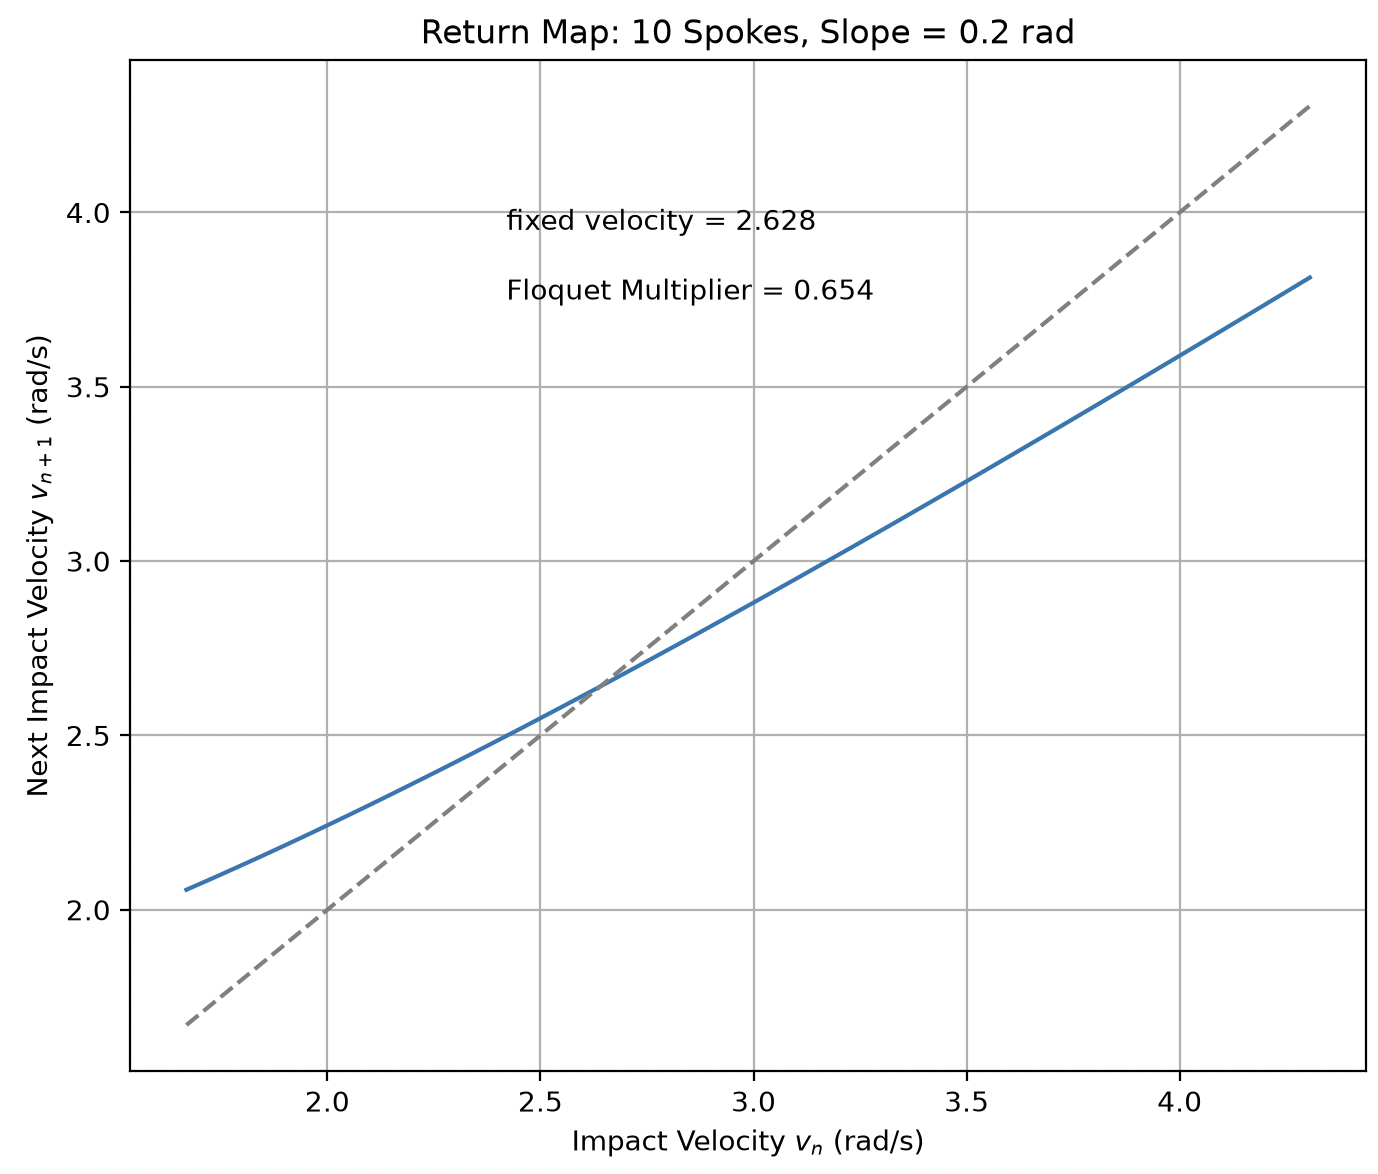
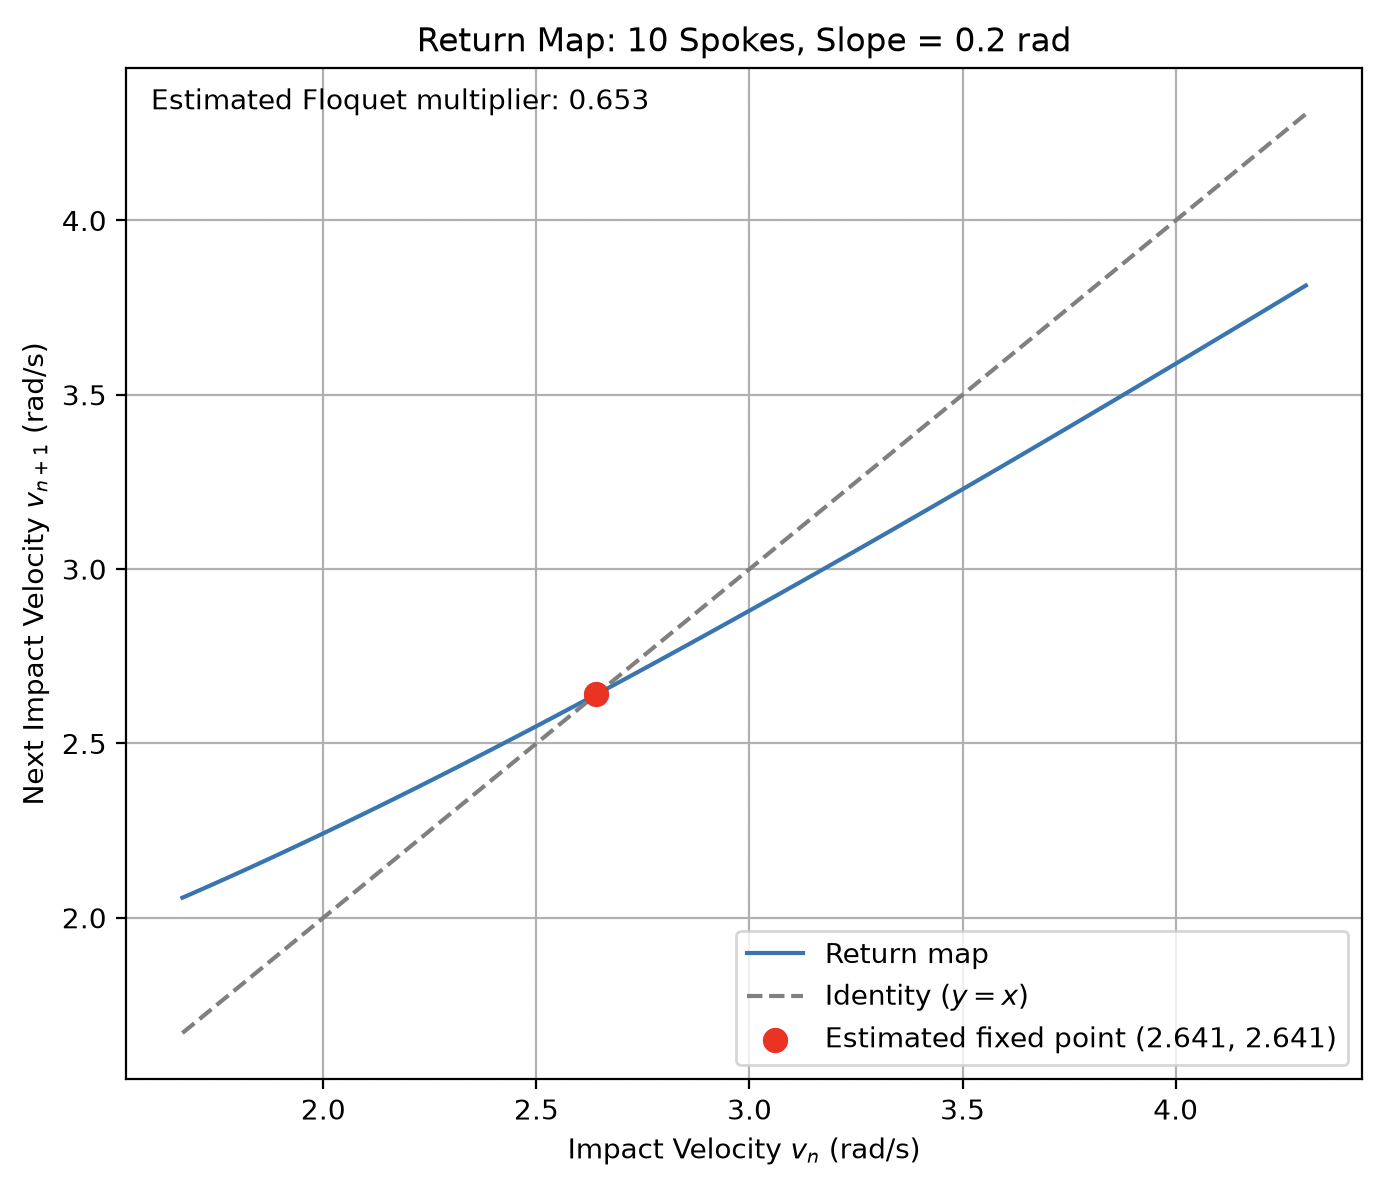
Post peer-review fixes

diff --git a/mae5110/assignment_1.py b/mae5110/assignment_1.py
@@ -8,63 +8,77 @@ from models import rimless_wheel as model
 
 params = model.generate_params()
 
-def simulate(initial_state, params, t_max, dt_base):
+def simulate(initial_state, params, t_max, dt_base, *, settle_speed=1e-3):
+    if dt_base <= 0 or settle_speed <= 0:
+        raise ValueError("dt_base and settle_speed must be positive")
     t = 0.0
-    state = np.array(initial_state)
+    state = np.array(initial_state, dtype=float)
 
     t_history = [t]
     state_history = [state]
     poincare_sections = []
 
     while t < t_max:
-        next_state = rk4.step(model.dynamics, t, state, dt_base, params)
-
-        if model.impact_guard(next_state, params):
-            dt_fine = dt_base
-            fine_state = state
-
-            for i in range(10):
-                dt_fine /= 2
-                test_state = rk4.step(model.dynamics, t, fine_state, dt_fine, params)
-                if not model.impact_guard(test_state, params):
-                    fine_state = test_state
-                    t += dt_fine
+        dt = min(dt_base, t_max - t)
+        next_state = rk4.step(model.dynamics, t, state, dt, params)
+        impact_direction = model.impact_guard(next_state, params)
+        if impact_direction != 0:
+            low, high = 0.0, dt
+            for _ in range(30):
+                mid = (low + high) / 2
+                test_state = rk4.step(model.dynamics, t, state, mid, params)
+                if model.impact_guard(test_state, params) == impact_direction:
+                    high = mid
+                else:
+                    low = mid
+            fine_state = rk4.step(model.dynamics, t, state, high, params)
+            fine_state[0] = params["slope"] + impact_direction * params["half_angle"]
+            t += high
             poincare_sections.append(fine_state)
-            state = model.reset_dynamics(fine_state, params)
+            state = model.reset_dynamics(fine_state, params, impact_direction)
+
+            can_rest = abs(params["slope"]) < params["half_angle"]
+            if can_rest and abs(state[1]) < settle_speed:
+                state[1] = 0.0
+                t_history.append(t)
+                state_history.append(state)
+                break
 
             t_history.append(t)
             state_history.append(state)
         else:
             state = next_state
-            t += dt_base
+            t += dt
 
             t_history.append(t)
             state_history.append(state)
-        if state[1] <= 0 and state[0] < params["slope"] + params["half_angle"]:
-            break
 
-    return np.array(t_history), np.array(state_history), np.array(poincare_sections)
+    return np.array(t_history), np.array(state_history), np.array(poincare_sections).reshape(-1, 2)
 
 
-#Estimating regions of attraction.
-#Expected attractors: limit cycle (rolling), dead stop (stationary)
+def classify_motion(state_history, poincare_sections):
+    if len(poincare_sections) > 0 and state_history[-1, 1] == 0:
+        return -1
+    recent = poincare_sections[-5:, 1]
+    if len(recent) == 5 and np.all(recent > 0):
+        if np.ptp(recent) <= 0.01 * np.mean(recent):
+            return 1
+    return 0
+
+
 def estimate_roa():
     gamma = params["slope"]
     alpha = params["half_angle"]
     theta_values = np.linspace(gamma - alpha, gamma + alpha, 60)
-    theta_dot_values = np.linspace(0, 5, 60)
+    theta_dot_values = np.linspace(-5, 5, 60)
 
     roa_map = np.zeros((60, 60))
 
     for i, theta_dot in enumerate(theta_dot_values):
         for j, theta in enumerate(theta_values):
             initial_state = [theta, theta_dot]
-            _, _, poincare_sections = simulate(initial_state, params, t_max=10, dt_base=0.01)
-
-            if len(poincare_sections) > 5:
-                roa_map[i, j] = 1
-            else:
-                roa_map[i, j] = -1  # Dead stop attractor
+            _, states, poincare_sections = simulate(initial_state, params, t_max=10, dt_base=0.01)
+            roa_map[i, j] = classify_motion(states, poincare_sections)
 
     theta_grid, theta_dot_grid = np.meshgrid(theta_values, theta_dot_values)
     plt.figure(figsize=(8, 6))
@@ -73,6 +87,8 @@ def estimate_roa():
                 color='green', marker='o', label='Rolling')
     plt.scatter(theta_grid[roa_map == -1], theta_dot_grid[roa_map == -1],
                 color='red', marker='o', label='Dead Stop')
+    plt.scatter(theta_grid[roa_map == 0], theta_dot_grid[roa_map == 0],
+                color='gray', marker='o', label='Unresolved at 10 s')
 
     plt.xlabel('Initial Angle, $\\theta$ (rad)')
     plt.ylabel('Initial Velocity, $\\dot{\\theta}$ (rad/s)')
@@ -91,6 +107,7 @@ def return_map(params):
     for velocity in test_velocities:
         initial_state = [0.0, velocity]
         _, _, poincare = simulate(initial_state, params, t_max=3.0, dt_base=0.01)
+        poincare = poincare[poincare[:, 1] > 0]
         if len(poincare) >= 2:
             v_n.append(poincare[0][1])
             v_next.append(poincare[1][1])
@@ -99,17 +116,34 @@ def return_map(params):
 
 
 def estimate_fixed_point(v_n, v_next, window_radius=2):
+    v_n, v_next = np.asarray(v_n), np.asarray(v_next)
+    valid = np.isfinite(v_n) & np.isfinite(v_next)
+    order = np.argsort(v_n[valid])
+    v_n, v_next = v_n[valid][order], v_next[valid][order]
+    residual = v_next - v_n
+    fixed_velocity = None
+    for fixed_idx in range(len(v_n)):
+        if residual[fixed_idx] == 0:
+            fixed_velocity = v_n[fixed_idx]
+            break
+        if (fixed_idx + 1 < len(v_n)
+                and v_n[fixed_idx + 1] > v_n[fixed_idx]
+                and residual[fixed_idx] * residual[fixed_idx + 1] < 0):
+            fraction = -residual[fixed_idx] / (residual[fixed_idx + 1] - residual[fixed_idx])
+            fixed_velocity = v_n[fixed_idx] + fraction * (v_n[fixed_idx + 1] - v_n[fixed_idx])
+            break
+    if fixed_velocity is None:
+        return None, None
 
-    fixed_idx = np.argmin(np.abs(v_n - v_next))
     start_idx = max(0, fixed_idx - window_radius)
-    end_idx = min(len(v_n), fixed_idx + window_radius + 1)
+    end_idx = min(len(v_n), fixed_idx + max(window_radius + 1, 2))
     local_v = v_n[start_idx:end_idx]
 
     if np.unique(local_v).size < 2:
-        return v_n[fixed_idx], None
+        return fixed_velocity, None
 
     multiplier, _ = np.polyfit(local_v, v_next[start_idx:end_idx], 1)
-    return v_n[fixed_idx], multiplier
+    return fixed_velocity, multiplier
 
 def return_map_plot(params=None):
     if params is None:
@@ -120,7 +154,7 @@ def return_map_plot(params=None):
 
     ax.plot(v_n, v_next, label="Return map")
     all_velocities = np.concatenate([v_n, v_next])
-    limits = [all_velocities.min(), all_velocities.max()]
+    limits = [all_velocities.min(), all_velocities.max()] if all_velocities.size else [0, 1]
     ax.plot(limits, limits, linestyle="--", color="gray", label="Identity ($y=x$)")
 
     ax.set_xlabel("Impact Velocity $v_{n}$ (rad/s)")
@@ -130,8 +164,17 @@ def return_map_plot(params=None):
         f"Slope = {params['slope']:.4g} rad"
     )
     fixed_velocity, multiplier = estimate_fixed_point(v_n, v_next)
-    ax.text(2.42, 3.95, f"fixed velocity = {fixed_velocity:.3f}")
-    ax.text(2.42, 3.75, f"Floquet Multiplier = {multiplier:.3f}")
+    if fixed_velocity is not None:
+        ax.scatter(
+            [fixed_velocity], [fixed_velocity], color="red", s=65, zorder=5,
+            label=f"Estimated fixed point ({fixed_velocity:.3f}, {fixed_velocity:.3f})",
+        )
+        note = (f"Estimated Floquet multiplier: {multiplier:.3f}"
+                if multiplier is not None else "Floquet multiplier unavailable")
+    else:
+        note = "No fixed point detected in sampled range"
+    ax.text(0.02, 0.98, note, transform=ax.transAxes, va="top")
+    ax.legend(loc="lower right")
     ax.grid(True)
     fig.tight_layout()
     plt.show()
@@ -144,6 +187,19 @@ def _sweep(values, *, parameter, label, title):
     cmap = plt.colormaps["cividis"]
     fig, (ax1, ax2, ax3) = plt.subplots(
         3, 1, figsize=(8, 8), layout="constrained"
+    )
+    base_params = model.generate_params()
+    if parameter == "slope":
+        sweep_info = f"{len(values)} slope values swept"
+    else:
+        sweep_info = (
+            f"{len(values)} spoke counts swept\n"
+            rf"$\gamma = {base_params['slope']:.4g}$ rad"
+        )
+    ax1.text(
+        0.02, 0.98, sweep_info, transform=ax1.transAxes,
+        va="top", fontsize=9,
+        bbox=dict(facecolor="white", alpha=0.85, edgecolor="none"),
     )
     curves = []
     fixed_velocities = []
@@ -161,18 +217,20 @@ def _sweep(values, *, parameter, label, title):
         ax1.plot(v_n, v_next, color=cmap(norm(value)))
 
         fixed_velocity, multiplier = estimate_fixed_point(v_n, v_next)
-        fixed_velocities.append(fixed_velocity)
+        fixed_velocities.append(fixed_velocity if fixed_velocity is not None else np.nan)
         multipliers.append(multiplier if multiplier is not None else np.nan)
 
-    all_velocities = np.concatenate(curves)
-    limits = [all_velocities.min(), all_velocities.max()]
+    all_velocities = np.concatenate(curves) if curves else np.array([])
+    limits = [all_velocities.min(), all_velocities.max()] if all_velocities.size else [0, 1]
     ax1.plot(limits, limits, linestyle="--", color="gray", label="Identity ($y=x$)")
 
     ax2.plot(values, multipliers, color='red',linestyle='--', linewidth=2, marker='*')
     ax2.set_xlabel(label)
     ax2.set_ylabel("Floquet Multiplier")
     ax2.set_title(f"Floquet Multiplier as a Function of {label}")
-    ax2.set_ylim(0, 1)
+    ax2.axhline(1, color="gray", linestyle=":", label="Stability boundaries")
+    ax2.axhline(-1, color="gray", linestyle=":")
+    ax2.legend()
     ax2.grid(True)
     ax3.plot(values, fixed_velocities, color='blue',linestyle='--', linewidth=2, marker='*')
     ax3.set_xlabel(label)
@@ -218,7 +276,7 @@ def test_energy_conservation():
     initial_state = np.array([-0.1, 0.5])
 
     timestep = 1e-4
-    sim_time = 5.0
+    sim_time = 10.0
     n_timesteps = int(sim_time / timestep) + 1
     time_traj = np.arange(n_timesteps) * timestep
     state_traj = np.zeros((2, n_timesteps))
@@ -247,19 +305,8 @@ def test_flat_ground_dissipation():
     initial_state = np.array([0.0, 3.0])
     timestep = 1e-4
     sim_time = 6.0
-    n_timesteps = int(sim_time / timestep) + 1
-    time_traj = np.arange(n_timesteps) * timestep
-    state_traj = np.zeros((2, n_timesteps))
-    state_traj[:, 0] = initial_state
-
-    for step, t in enumerate(time_traj[:-1]):
-        current_state = state_traj[:, step]
-        next_state = rk4.step(model.dynamics, t, current_state, timestep, params)
-
-        if model.impact_guard(next_state, params):
-            next_state = model.reset_dynamics(next_state, params)
-
-        state_traj[:, step + 1] = next_state
+    time_traj, states, _ = simulate(initial_state, params, sim_time, timestep)
+    state_traj = states.T
 
     kinetic = 0.5 * params["mass"] * params["length"]**2 * state_traj[1,:]**2
     potential = params["mass"] * params["gravity"] * params["length"] * np.cos(state_traj[0,:])
@@ -279,22 +326,11 @@ def test_downhill_limit_cycle():
 
     params = model.generate_params()
 
-    initial_state = np.array([-params["half_angle"], 3.0])
+    initial_state = np.array([params["slope"] - params["half_angle"], 3.0])
     timestep = 1e-4
     sim_time = 6.0
-    n_timesteps = int(sim_time / timestep) + 1
-    time_traj = np.arange(n_timesteps) * timestep
-    state_traj = np.zeros((2, n_timesteps))
-    state_traj[:, 0] = initial_state
-
-    for step, t in enumerate(time_traj[:-1]):
-        current_state = state_traj[:, step]
-        next_state = rk4.step(model.dynamics, t, current_state, timestep, params)
-
-        if model.impact_guard(next_state, params):
-            next_state = model.reset_dynamics(next_state, params)
-
-        state_traj[:, step + 1] = next_state
+    time_traj, states, _ = simulate(initial_state, params, sim_time, timestep)
+    state_traj = states.T
 
     _, (ax1) = plt.subplots(1, 1, sharex=True, figsize=(8, 6))
     ax1.plot(state_traj[0,:], state_traj[1,:] , color='blue')

diff --git a/models/rimless_wheel.py b/models/rimless_wheel.py
@@ -29,20 +29,21 @@ def generate_params(*, n_spokes=10, slope=0.2):
 
 def impact_guard(state, params):
 
-    theta, _ = state
+    theta, theta_dot = state
     gamma = params["slope"]
     alpha = params["half_angle"]
 
-    impact_angle = gamma + alpha
+    if theta >= gamma + alpha and theta_dot > 0:
+        return 1
+    if theta <= gamma - alpha and theta_dot < 0:
+        return -1
+    return 0
 
-    return theta >= impact_angle or theta <= -alpha
-
-def reset_dynamics(state, params):
+def reset_dynamics(state, params, impact_direction):
     theta_minus, theta_dot_minus = state
 
     alpha = params["half_angle"]
-
-    theta_plus = theta_minus - 2 * alpha
+    theta_plus = theta_minus - impact_direction * 2 * alpha
     theta_dot_plus = theta_dot_minus * np.cos(2 * alpha)
 
     return np.array([theta_plus, theta_dot_plus])
